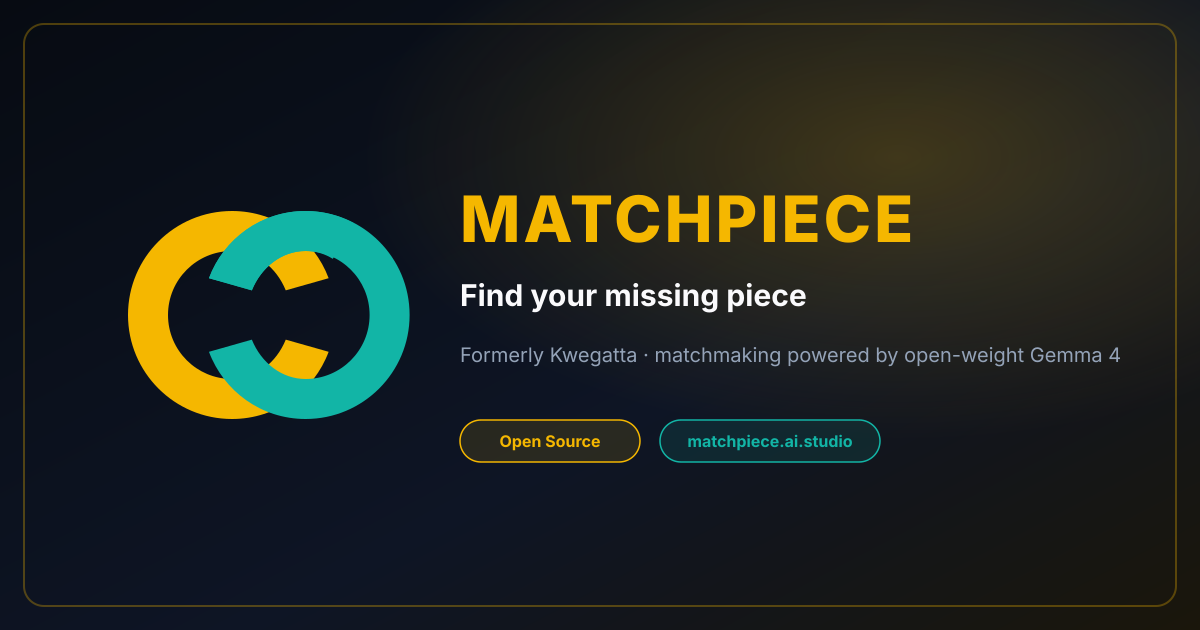
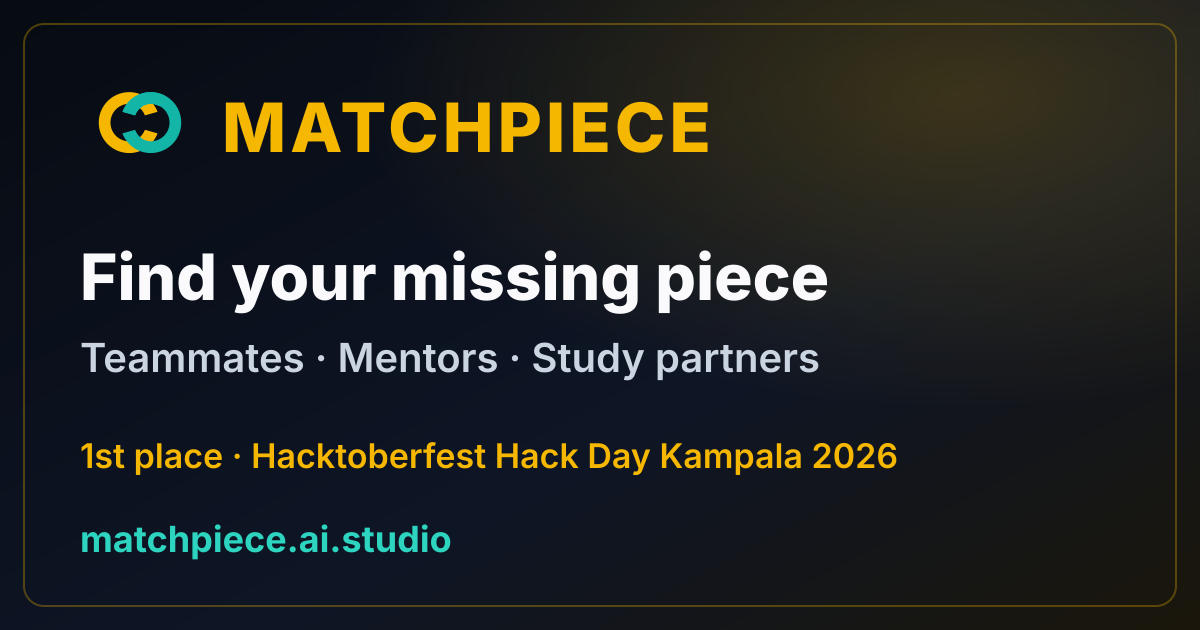
feat: new default share image and description; event images in the same style
- Default share image: MATCHPIECE, "Find your missing piece",
  "Teammates · Mentors · Study partners", the Hack Day award and the address,
  in larger text for small chat previews; no pills, no former name
- Default description: "Find teammates, mentors and study partners. 1st place
  at Hacktoberfest Hack Day Kampala 2026. Free and open source." (meta, og,
  twitter, JSON-LD, manifest)
- Event and profile share images use the same header, colours and text sizes;
  image version bumped so previews refresh

diff --git a/server.ts b/server.ts
@@ -20,7 +20,7 @@ import { validateTeamPayload, checkPhotoDataUrl, checkX, checkWebsite, whatsappL
 import { getEffectiveStartMs, getEffectiveEndMs, getOpportunityDeadlineMs, sortForTab, findRecentDuplicate } from './src/lib/eventTiming';
 import { withHttps } from './src/lib/links';
 import { markGroup } from './src/lib/brandMark';
-import { BRAND_NAME, BRAND_TITLE, BRAND_TAGLINE, BRAND_FORMERLY, EMAIL_FROM_NAME as BRAND_EMAIL_FROM_NAME, PRIMARY_HOST, PRIMARY_URL, applyBrandToHtml } from './src/lib/brand';
+import { BRAND_NAME, BRAND_TITLE, BRAND_TAGLINE, BRAND_AUDIENCE, BRAND_AWARD_SHORT, EMAIL_FROM_NAME as BRAND_EMAIL_FROM_NAME, PRIMARY_HOST, PRIMARY_URL, applyBrandToHtml } from './src/lib/brand';
 
 const __filename = fileURLToPath(import.meta.url);
 const __dirname = path.dirname(__filename);
@@ -4865,7 +4865,7 @@ export function isEventPubliclyVisible(item: any): boolean {
   return true;
 }
 
-export const OG_RENDER_VERSION = '4';
+export const OG_RENDER_VERSION = '5';
 
 export function computeEventOgVersionHash(item: any): string {
   const raw = `v${OG_RENDER_VERSION}|${item?.cover_image || ''}|${item?.title || ''}|${item?.starts_at || item?.datetime || ''}`;
@@ -5062,38 +5062,19 @@ export function canInterRender(text: string): boolean {
 }
 
 /**
- * Default share image (public/og-image.png), rendered by scripts/render-og-image.ts.
- * Same layout as before; only the name and wording come from src/lib/brand.ts.
+ * Default share image (public/og-image.png), rendered by scripts/render-brand-images.ts.
+ * Large text so it still reads in small chat previews; wording from src/lib/brand.ts.
  */
 export function buildDefaultOgSvg(): string {
-  const mark = `<g transform="translate(64 115) scale(0.8)">
-      <path d="M 210 120 C 138.2 120 80 178.2 80 250 C 80 321.8 138.2 380 210 380 C 265.4 380 312.4 345.3 330.8 296 L 277.2 280.8 C 265.4 309.8 239.8 330 210 330 C 165.8 330 130 294.2 130 250 C 130 205.8 165.8 170 210 170 C 239.8 170 265.4 190.2 277.2 219.2 L 330.8 204 C 312.4 154.7 265.4 120 210 120 Z" fill="#F5B700"/>
-      <path d="M 302 120 C 246.6 120 199.6 154.7 181.2 204 L 234.8 219.2 C 246.6 190.2 272.2 170 302 170 C 346.2 170 382 205.8 382 250 C 382 294.2 346.2 330 302 330 C 272.2 330 246.6 309.8 234.8 280.8 L 181.2 296 C 199.6 345.3 246.6 380 302 380 C 373.8 380 432 321.8 432 250 C 432 178.2 373.8 120 302 120 Z" fill="#12B5A6"/>
-      <path d="M 234.8 219.2 C 246.6 190.2 272.2 170 302 170 C 314.5 170 326.2 173.6 336 179.8 L 362 135.2 C 344.2 125.5 323.8 120 302 120 C 246.6 120 199.6 154.7 181.2 204 L 234.8 219.2 Z" fill="#12B5A6"/>
-    </g>`;
+  const e = escapeHtml;
   return `<svg width="1200" height="630" viewBox="0 0 1200 630" xmlns="http://www.w3.org/2000/svg">
-    <defs>
-      <linearGradient id="bg" x1="0" y1="0" x2="1" y2="1">
-        <stop offset="0%" stop-color="#070B12"/>
-        <stop offset="60%" stop-color="#0E1525"/>
-        <stop offset="100%" stop-color="#1A160B"/>
-      </linearGradient>
-      <radialGradient id="glow" cx="0.75" cy="0.25" r="0.45">
-        <stop offset="0%" stop-color="#F5B700" stop-opacity="0.22"/>
-        <stop offset="100%" stop-color="#F5B700" stop-opacity="0"/>
-      </radialGradient>
-    </defs>
-    <rect width="1200" height="630" fill="url(#bg)"/>
-    <rect width="1200" height="630" fill="url(#glow)"/>
-    <rect x="24" y="24" width="1152" height="582" rx="20" fill="none" stroke="#F5B700" stroke-opacity="0.3" stroke-width="2"/>
-    ${mark}
-    <text x="460" y="242" fill="#F5B700" font-family="Inter, sans-serif" font-size="64" font-weight="800" letter-spacing="3">${escapeHtml(BRAND_NAME.toUpperCase())}</text>
-    <text x="460" y="306" fill="#FAFAFC" font-family="Inter, sans-serif" font-size="30" font-weight="700">${escapeHtml(BRAND_TAGLINE)}</text>
-    <text x="460" y="362" fill="#94A3B8" font-family="Inter, sans-serif" font-size="20">${escapeHtml(`Formerly ${BRAND_FORMERLY} · matchmaking powered by open-weight Gemma 4`)}</text>
-    <rect x="460" y="420" width="180" height="42" rx="21" fill="#F5B700" fill-opacity="0.12" stroke="#F5B700" stroke-width="1.5"/>
-    <text x="550" y="447" text-anchor="middle" fill="#F5B700" font-family="Inter, sans-serif" font-size="16" font-weight="700">Open Source</text>
-    <rect x="660" y="420" width="220" height="42" rx="21" fill="#12B5A6" fill-opacity="0.12" stroke="#12B5A6" stroke-width="1.5"/>
-    <text x="770" y="447" text-anchor="middle" fill="#12B5A6" font-family="Inter, sans-serif" font-size="16" font-weight="700">${escapeHtml(PRIMARY_HOST)}</text>
+    ${ogBackgroundSvg()}
+    ${markGroup(80, 64, 120)}
+    <text x="222" y="152" fill="#F5B700" font-family="Inter, sans-serif" font-size="68" font-weight="800" letter-spacing="4">${e(BRAND_NAME.toUpperCase())}</text>
+    <text x="80" y="300" fill="#FAFAFC" font-family="Inter, sans-serif" font-size="64" font-weight="800">${e(BRAND_TAGLINE)}</text>
+    <text x="80" y="372" fill="#CBD5E1" font-family="Inter, sans-serif" font-size="40" font-weight="600">${e(BRAND_AUDIENCE)}</text>
+    <text x="80" y="468" fill="#F5B700" font-family="Inter, sans-serif" font-size="34" font-weight="600">${e(BRAND_AWARD_SHORT)}</text>
+    <text x="80" y="552" fill="#2DD4BF" font-family="Inter, sans-serif" font-size="36" font-weight="700">${e(PRIMARY_HOST)}</text>
   </svg>`;
 }
 
@@ -5118,93 +5099,80 @@ export function ogBackgroundSvg(): string {
 /** Small mark and MATCHPIECE wordmark, top-left of a share image (x, y = top-left of the mark). */
 export function ogHeaderSvg(x: number, y: number): string {
   return `${markGroup(x, y, 64)}
-    <text x="${x + 78}" y="${y + 44}" fill="#F5B700" font-family="Inter, sans-serif" font-size="32" font-weight="800" letter-spacing="3">${escapeHtml(BRAND_NAME.toUpperCase())}</text>`;
+    <text x="${x + 78}" y="${y + 44}" fill="#F5B700" font-family="Inter, sans-serif" font-size="32" font-weight="800" letter-spacing="3">${OG_BADGE_TEXT}</text>`;
 }
 
-/** Brand badge on event OG images: about 15px per letter at 18px bold with letter spacing. */
+/** Wordmark text on share images. */
 export const OG_BADGE_TEXT = escapeHtml(BRAND_NAME.toUpperCase());
-const OG_BADGE_WIDTH = Math.max(168, BRAND_NAME.length * 15 + 48);
 
 export async function renderEventOgJpeg(item: any): Promise<Buffer> {
   await ensureFontConfigInitialized();
+  const e = escapeHtml;
 
-  const [line1, line2] = wrapTitleLines(item.title || `${BRAND_NAME} Event`, 34);
-  const hasLine1 = Boolean(line1 && canInterRender(line1));
-  const hasLine2 = Boolean(line2 && canInterRender(line2));
-  const safeLine1 = hasLine1 ? escapeHtml(line1) : '';
-  const safeLine2 = hasLine2 && line2 ? escapeHtml(line2) : '';
+  const [line1, line2] = wrapTitleLines(item.title || `${BRAND_NAME} Event`, 32);
+  const titleLines = [line1, line2].filter((l): l is string => Boolean(l && canInterRender(l)));
 
   const { dateTimeText, tz } = formatEventOgDatePart(item);
   const venuePart =
     item?.format === 'online'
       ? 'Online'
       : stripControlChars(item?.venue || item?.location || 'Kampala') || 'Kampala';
-  const rawMetaLine = `${dateTimeText} (${tz}) · ${venuePart}`;
-  const hasMeta = canInterRender(rawMetaLine);
-  const safeMetaLine = hasMeta
-    ? escapeHtml(rawMetaLine.length > 76 ? rawMetaLine.slice(0, 75) + '…' : rawMetaLine)
-    : '';
+  const dateLine = `${dateTimeText} (${tz})`;
+  const venueLine = venuePart.length > 52 ? venuePart.slice(0, 51).trimEnd() + '…' : venuePart;
+  const showDate = canInterRender(dateLine);
+  const showVenue = canInterRender(venueLine);
 
   const coverBuf = resolveCoverImageBuffer(item.cover_image);
+  const textBlock = (titleY: number) => {
+    const out: string[] = [];
+    let y = titleY;
+    for (const line of titleLines) {
+      out.push(`<text x="80" y="${y}" fill="#FAFAFC" font-family="Inter, sans-serif" font-size="56" font-weight="800">${e(line)}</text>`);
+      y += 66;
+    }
+    y += 4;
+    if (showDate) {
+      out.push(`<text x="80" y="${y}" fill="#F5B700" font-family="Inter, sans-serif" font-size="34" font-weight="600">${e(dateLine)}</text>`);
+      y += 48;
+    }
+    if (showVenue) out.push(`<text x="80" y="${y}" fill="#CBD5E1" font-family="Inter, sans-serif" font-size="34" font-weight="500">${e(venueLine)}</text>`);
+    return out.join('\n      ');
+  };
 
-  const titleY1 = hasLine2 ? 450 : 495;
-  const titleY2 = 510;
-  const metaY = hasLine1 ? 568 : 520;
-
+  let out: Buffer;
   if (coverBuf) {
     const overlaySvg = `<svg width="1200" height="630" viewBox="0 0 1200 630" xmlns="http://www.w3.org/2000/svg">
       <defs>
         <linearGradient id="grad" x1="0" y1="0" x2="0" y2="1">
-          <stop offset="0%" stop-color="#070B12" stop-opacity="0.18"/>
-          <stop offset="45%" stop-color="#070B12" stop-opacity="0.55"/>
-          <stop offset="100%" stop-color="#070B12" stop-opacity="0.95"/>
+          <stop offset="0%" stop-color="#070B12" stop-opacity="0.45"/>
+          <stop offset="40%" stop-color="#070B12" stop-opacity="0.55"/>
+          <stop offset="100%" stop-color="#070B12" stop-opacity="0.96"/>
         </linearGradient>
       </defs>
       <rect width="1200" height="630" fill="url(#grad)"/>
-      <rect x="64" y="48" width="${OG_BADGE_WIDTH}" height="42" rx="10" fill="#070B12" fill-opacity="0.82" stroke="#F59E0B" stroke-width="1.5"/>
-      <text x="${64 + OG_BADGE_WIDTH / 2}" y="75" text-anchor="middle" fill="#F59E0B" font-family="Inter, sans-serif" font-size="18" font-weight="800" letter-spacing="2">${OG_BADGE_TEXT}</text>
-      ${hasLine1 ? `<text x="64" y="${titleY1}" fill="#FAFAFC" font-family="Inter, sans-serif" font-size="48" font-weight="800">${safeLine1}</text>` : ''}
-      ${hasLine2 ? `<text x="64" y="${titleY2}" fill="#FAFAFC" font-family="Inter, sans-serif" font-size="48" font-weight="800">${safeLine2}</text>` : ''}
-      ${hasMeta ? `<text x="64" y="${metaY}" fill="#F59E0B" font-family="Inter, sans-serif" font-size="24" font-weight="600">${safeMetaLine}</text>` : ''}
+      <rect x="56" y="44" width="380" height="88" rx="16" fill="#070B12" fill-opacity="0.72"/>
+      ${ogHeaderSvg(76, 56)}
+      <text x="1136" y="100" text-anchor="end" fill="#2DD4BF" font-family="Inter, sans-serif" font-size="28" font-weight="700">${e(PRIMARY_HOST)}</text>
+      ${textBlock(titleLines.length > 1 ? 400 : 440)}
     </svg>`;
-
-    const baseImage = sharp(coverBuf)
+    out = await sharp(coverBuf)
       .resize(1200, 630, { fit: 'cover', position: 'attention' })
-      .composite([{ input: Buffer.from(overlaySvg), top: 0, left: 0 }]);
-
-    let out = await baseImage.jpeg({ quality: 80 }).toBuffer();
-    if (out.length > 300 * 1024) {
-      out = await sharp(out).jpeg({ quality: 65 }).toBuffer();
-    }
-    return out;
-  } else {
-    const brandSvg = `<svg width="1200" height="630" viewBox="0 0 1200 630" xmlns="http://www.w3.org/2000/svg">
-      <defs>
-        <linearGradient id="bg" x1="0" y1="0" x2="1" y2="1">
-          <stop offset="0%" stop-color="#070B12"/>
-          <stop offset="60%" stop-color="#0E1525"/>
-          <stop offset="100%" stop-color="#1A160B"/>
-        </linearGradient>
-      </defs>
-      <rect width="1200" height="630" fill="url(#bg)"/>
-      <circle cx="1060" cy="120" r="240" fill="#F59E0B" fill-opacity="0.08"/>
-      <rect x="40" y="40" width="1120" height="550" rx="24" fill="none" stroke="#F59E0B" stroke-opacity="0.3" stroke-width="2"/>
-      <rect x="72" y="72" width="${OG_BADGE_WIDTH}" height="42" rx="10" fill="#F59E0B" fill-opacity="0.15" stroke="#F59E0B" stroke-width="1.5"/>
-      <text x="${72 + OG_BADGE_WIDTH / 2}" y="99" text-anchor="middle" fill="#F59E0B" font-family="Inter, sans-serif" font-size="18" font-weight="800" letter-spacing="2">${OG_BADGE_TEXT}</text>
-      ${hasLine1 ? `<text x="72" y="${titleY1}" fill="#FAFAFC" font-family="Inter, sans-serif" font-size="48" font-weight="800">${safeLine1}</text>` : ''}
-      ${hasLine2 ? `<text x="72" y="${titleY2}" fill="#FAFAFC" font-family="Inter, sans-serif" font-size="48" font-weight="800">${safeLine2}</text>` : ''}
-      ${hasMeta ? `<text x="72" y="${metaY - 12}" fill="#F59E0B" font-family="Inter, sans-serif" font-size="24" font-weight="600">${safeMetaLine}</text>` : ''}
-    </svg>`;
-
-    let out = await sharp(Buffer.from(brandSvg))
-      .resize(1200, 630)
+      .composite([{ input: Buffer.from(overlaySvg), top: 0, left: 0 }])
       .jpeg({ quality: 80 })
       .toBuffer();
-    if (out.length > 300 * 1024) {
-      out = await sharp(out).jpeg({ quality: 65 }).toBuffer();
-    }
-    return out;
+  } else {
+    const brandSvg = `<svg width="1200" height="630" viewBox="0 0 1200 630" xmlns="http://www.w3.org/2000/svg">
+      ${ogBackgroundSvg()}
+      ${ogHeaderSvg(80, 62)}
+      ${textBlock(titleLines.length > 1 ? 250 : 280)}
+      <text x="80" y="568" fill="#2DD4BF" font-family="Inter, sans-serif" font-size="34" font-weight="700">${e(PRIMARY_HOST)}</text>
+    </svg>`;
+    out = await sharp(Buffer.from(brandSvg)).resize(1200, 630).jpeg({ quality: 80 }).toBuffer();
   }
+  if (out.length > 300 * 1024) {
+    out = await sharp(out).jpeg({ quality: 65 }).toBuffer();
+  }
+  return out;
 }
 
 app.get('/og/event/:id.jpg', async (req: Request, res: Response) => {

diff --git a/tests/release-1-13-2.test.ts b/tests/release-1-13-2.test.ts
@@ -11,9 +11,11 @@ import {
   profileShareText,
   profileOgBadges,
   scrubContactInfo,
-  setIndexHtmlTemplateForTest
+  setIndexHtmlTemplateForTest,
+  buildDefaultOgSvg,
+  buildProfileOgSvg
 } from '../server';
-import { applyBrandToHtml, profileShareUrl } from '../src/lib/brand';
+import { applyBrandToHtml, profileShareUrl, BRAND_DESCRIPTION } from '../src/lib/brand';
 import { parseAppRoute } from '../src/lib/route';
 
 let server: any;
@@ -222,5 +224,46 @@ describe('In-app routes', () => {
     expect(parseAppRoute('#/events/ev1', '/')).toEqual({ main: 'events', sub: 'ev1' });
     expect(parseAppRoute('', '/about')).toEqual({ main: 'about', sub: undefined });
     expect(parseAppRoute('', '/')).toEqual({ main: 'home', sub: undefined });
+  });
+});
+
+describe('Default share card and meta', () => {
+  const DESCRIPTION = 'Find teammates, mentors and study partners. 1st place at Hacktoberfest Hack Day Kampala 2026. Free and open source.';
+
+  it('default meta has no "Kwegatta" and no "matchmaking", and uses the new description', async () => {
+    expect(BRAND_DESCRIPTION).toBe(DESCRIPTION);
+    const html = (await request('GET', '/u/no-such-profile-1132')).body.toString();
+    const head = html.slice(0, html.indexOf('</head>'));
+    const metaAndTitle = [...head.matchAll(/<meta [^>]*>|<title>[^<]*<\/title>|<script type="application\/ld\+json">[\s\S]*?<\/script>/g)].map(m => m[0]).join('\n');
+    expect(metaAndTitle).not.toMatch(/kwegatta|matchmaking/i);
+    expect(head).toContain(`<meta name="description" content="${DESCRIPTION}" />`);
+    expect(head).toContain(`<meta property="og:description" content="${DESCRIPTION}" />`);
+    expect(head).toContain(`<meta name="twitter:description" content="${DESCRIPTION}" />`);
+    const manifest = JSON.parse(fs.readFileSync('public/manifest.webmanifest', 'utf-8'));
+    expect(JSON.stringify([manifest.name, manifest.short_name, manifest.description])).not.toMatch(/kwegatta|matchmaking/i);
+  });
+
+  it('the default share image has the new lines, large text and no pills', () => {
+    const svg = buildDefaultOgSvg();
+    for (const line of ['>MATCHPIECE<', '>Find your missing piece<', '>Teammates · Mentors · Study partners<', '>1st place · Hacktoberfest Hack Day Kampala 2026<', '>matchpiece.ai.studio<']) {
+      expect(svg).toContain(line);
+    }
+    expect(svg).not.toMatch(/Kwegatta|matchmaking|Open Source/i);
+    expect(svg).not.toMatch(/rx="21"/);
+    const sizes = [...svg.matchAll(/font-size="(\d+)"/g)].map(m => Number(m[1]));
+    expect(Math.min(...sizes)).toBeGreaterThanOrEqual(34);
+  });
+
+  it('public/og-image.png is 1200x630', async () => {
+    const meta = await sharp('public/og-image.png').metadata();
+    expect([meta.width, meta.height]).toEqual([1200, 630]);
+  });
+
+  it('profile share image text is at least 34px apart from the name', () => {
+    const svg = buildProfileOgSvg({ id: 'x', name: 'Ann Lee', headline: 'Designer' }, false);
+    const sizes = [...svg.matchAll(/font-size="(\d+)"/g)].map(m => Number(m[1]));
+    expect(Math.min(...sizes)).toBeGreaterThanOrEqual(32);
+    expect(svg).toContain('>Ann Lee<');
+    expect(svg).toContain('>AL<');
   });
 });

diff --git a/index.html b/index.html
@@ -43,9 +43,9 @@
         } catch (e) {}
       })();
     </script>
-    <meta name="description" content="__BRAND_NAME__ (formerly __BRAND_FORMERLY__), 1st place · Hacktoberfest 2026 Hack Day Kampala. Match with people you should build and learn with based on what you need and offer using the open-weight Gemma 4 model." />
+    <meta name="description" content="__BRAND_DESCRIPTION__" />
     <meta property="og:title" content="__BRAND_TITLE__" />
-    <meta property="og:description" content="__BRAND_NAME__ (formerly __BRAND_FORMERLY__), 1st place · Hacktoberfest 2026 Hack Day Kampala. Match with people you should build and learn with based on what you need and offer using the open-weight Gemma 4 model." />
+    <meta property="og:description" content="__BRAND_DESCRIPTION__" />
     <meta property="og:type" content="website" />
     <meta property="og:site_name" content="__BRAND_NAME__" />
     <meta property="og:image" content="__PRIMARY_URL__/og-image.png" />
@@ -53,7 +53,7 @@
     <meta property="og:image:height" content="630" />
     <meta name="twitter:card" content="summary_large_image" />
     <meta name="twitter:title" content="__BRAND_TITLE__" />
-    <meta name="twitter:description" content="__BRAND_NAME__ (formerly __BRAND_FORMERLY__), 1st place · Hacktoberfest 2026 Hack Day Kampala. Match with people you should build and learn with based on what you need and offer using the open-weight Gemma 4 model." />
+    <meta name="twitter:description" content="__BRAND_DESCRIPTION__" />
     <meta name="twitter:image" content="__PRIMARY_URL__/og-image.png" />
 
     <!-- Schema.org Structured Data -->
@@ -62,11 +62,10 @@
       "@context": "https://schema.org",
       "@type": "WebApplication",
       "name": "__BRAND_NAME__",
-      "alternateName": "__BRAND_FORMERLY__",
       "url": "__PRIMARY_URL__/",
       "applicationCategory": "SocialNetworkingApplication",
       "operatingSystem": "All",
-      "description": "Find the people you should build and learn with based on what you need and offer.",
+      "description": "__BRAND_DESCRIPTION__",
       "offers": {
         "@type": "Offer",
         "price": "0",

diff --git a/src/lib/brand.ts b/src/lib/brand.ts
@@ -6,8 +6,12 @@
 export const BRAND_NAME = 'Matchpiece';
 export const BRAND_TAGLINE = 'Find your missing piece';
 export const BRAND_FORMERLY = 'Kwegatta';
+/** Default description for search results and share previews. */
 export const BRAND_DESCRIPTION =
-  'Say what you need and what you offer. Matchpiece matches students and builders with co-founders, teammates, mentors and study partners using the open-weight Gemma 4 model.';
+  'Find teammates, mentors and study partners. 1st place at Hacktoberfest Hack Day Kampala 2026. Free and open source.';
+/** Who you meet here; replaces "matchmaking" in share text so it is not read as a dating app. */
+export const BRAND_AUDIENCE = 'Teammates · Mentors · Study partners';
+export const BRAND_AWARD_SHORT = '1st place · Hacktoberfest Hack Day Kampala 2026';
 
 /** "Matchpiece: Find your missing piece" */
 export const BRAND_TITLE = `${BRAND_NAME}: ${BRAND_TAGLINE}`;

diff --git a/tests/kwegatta.test.ts b/tests/kwegatta.test.ts
@@ -6325,7 +6325,7 @@ describe('Release 1.5.0 Features', () => {
       });
 
       it('d) OG_RENDER_VERSION busts image cache', () => {
-        expect(OG_RENDER_VERSION).toBe('4');
+        expect(OG_RENDER_VERSION).toBe('5');
         const hash = computeEventOgVersionHash({ title: 'Test', starts_at: '2026-10-15T00:00:00Z' });
         expect(hash).toBeDefined();
         expect(typeof hash).toBe('string');

diff --git a/scripts/render-brand-images.ts b/scripts/render-brand-images.ts
@@ -1,5 +1,5 @@
 // Renders public/og-image.png (the default share image) from buildDefaultOgSvg().
-// Run after changing the brand name or tagline: NODE_ENV=test VITEST=1 npx tsx scripts/render-og-image.ts
+// Run after changing the brand name or tagline: NODE_ENV=test VITEST=1 npx tsx scripts/render-brand-images.ts
 import fs from 'fs';
 import path from 'path';
 import sharp from 'sharp';

diff --git a/vite.config.ts b/vite.config.ts
@@ -3,7 +3,7 @@ import react from '@vitejs/plugin-react';
 import path from 'path';
 import { fileURLToPath } from 'url';
 import { defineConfig, type Plugin } from 'vite';
-import { applyBrandToHtml } from './src/lib/brand';
+import { applyBrandToHtml } from './src/lib/brand.ts';
 
 const __filename = fileURLToPath(import.meta.url);
 const __dirname = path.dirname(__filename);

diff --git a/tests/release-1-13-0.test.ts b/tests/release-1-13-0.test.ts
@@ -196,7 +196,7 @@ describe('Share pages and OG images', () => {
     const svg = buildDefaultOgSvg();
     expect(svg).toContain('>MATCHPIECE</text>');
     expect(svg).toContain(`>${BRAND_TAGLINE}</text>`);
-    expect(svg).toContain('Formerly Kwegatta');
+    expect(svg).not.toMatch(/Kwegatta|matchmaking/i);
     expect(svg).toContain('matchpiece.ai.studio');
   });
 
